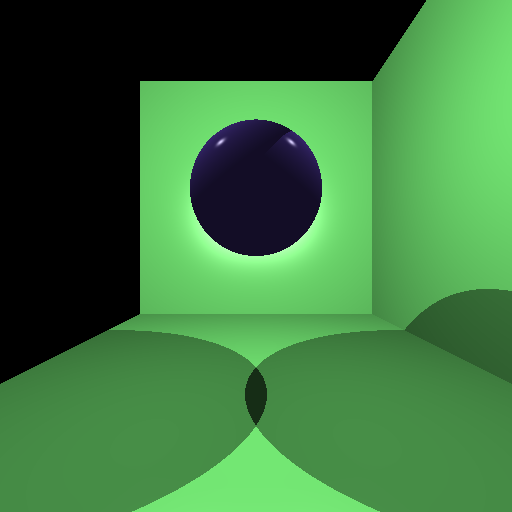
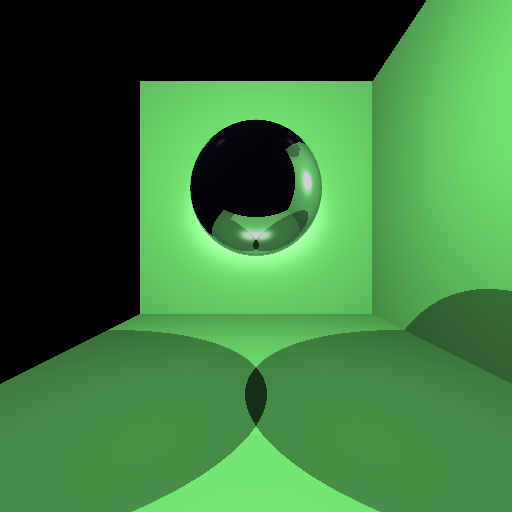
add reflectance

Changed region(s): [[0.3438, 0.2188, 0.6562, 0.5]]

diff --git a/src/rt/renderer/renderer.cc b/src/rt/renderer/renderer.cc
@@ -7,6 +7,8 @@
 
 namespace rt {
 
+static constexpr auto kEpsilon = 0.0001;
+
 std::unique_ptr<Image> Renderer::Render(const Scene& scene) {
   scene_ = &scene;
   auto camera = scene.camera();
@@ -30,13 +32,12 @@ std::unique_ptr<Image> Renderer::Render(const Scene& scene) {
 }
 
 std::optional<Intersection> Renderer::Hit(const Ray& ray) {
-  static constexpr auto epsilon = 0.0001;
   bool hit = false;
   Intersection inter{};
   inter.distance = std::numeric_limits<double>::infinity();
   for (auto& s : scene_->surfaces()) {
     auto i = s->Hit(ray);
-    if (i.has_value() && epsilon < i->distance &&
+    if (i.has_value() && kEpsilon < i->distance &&
         i->distance < inter.distance) {
       hit = true;
       inter = *i;
@@ -49,9 +50,6 @@ std::optional<Intersection> Renderer::Hit(const Ray& ray) {
 }
 
 Vector3<> Renderer::ProcessRay(const Ray& ray, std::size_t bounces) {
-  if (bounces == 0) {
-    return scene_->background();
-  }
   auto inter = Hit(ray);
   if (!inter.has_value()) {
     return scene_->background();
@@ -67,7 +65,22 @@ Vector3<> Renderer::ProcessRay(const Ray& ray, std::size_t bounces) {
     }
     color += light->Illuminate(ray, *inter);
   }
-  return color.Clamp(0.0, 1.0);
+  color = color.Clamp(0.0, 1.0);
+  if (bounces == 0) {
+    return color;
+  }
+  auto reflectance = inter->material->reflectance();
+  Vector3<> reflected_color{};
+  if (kEpsilon < reflectance) {
+    auto R =
+        2 * (-ray.direction).Dot(inter->normal) * inter->normal + ray.direction;
+    auto reflected_ray = Ray{inter->point, R};
+    reflected_color =
+        (reflectance * ProcessRay(reflected_ray, bounces - 1)).Clamp(0.0, 1.0);
+  } else {
+    reflectance = 0.0;
+  }
+  return color * (1 - reflectance) + reflected_color;
 }
 
 }  // namespace rt
